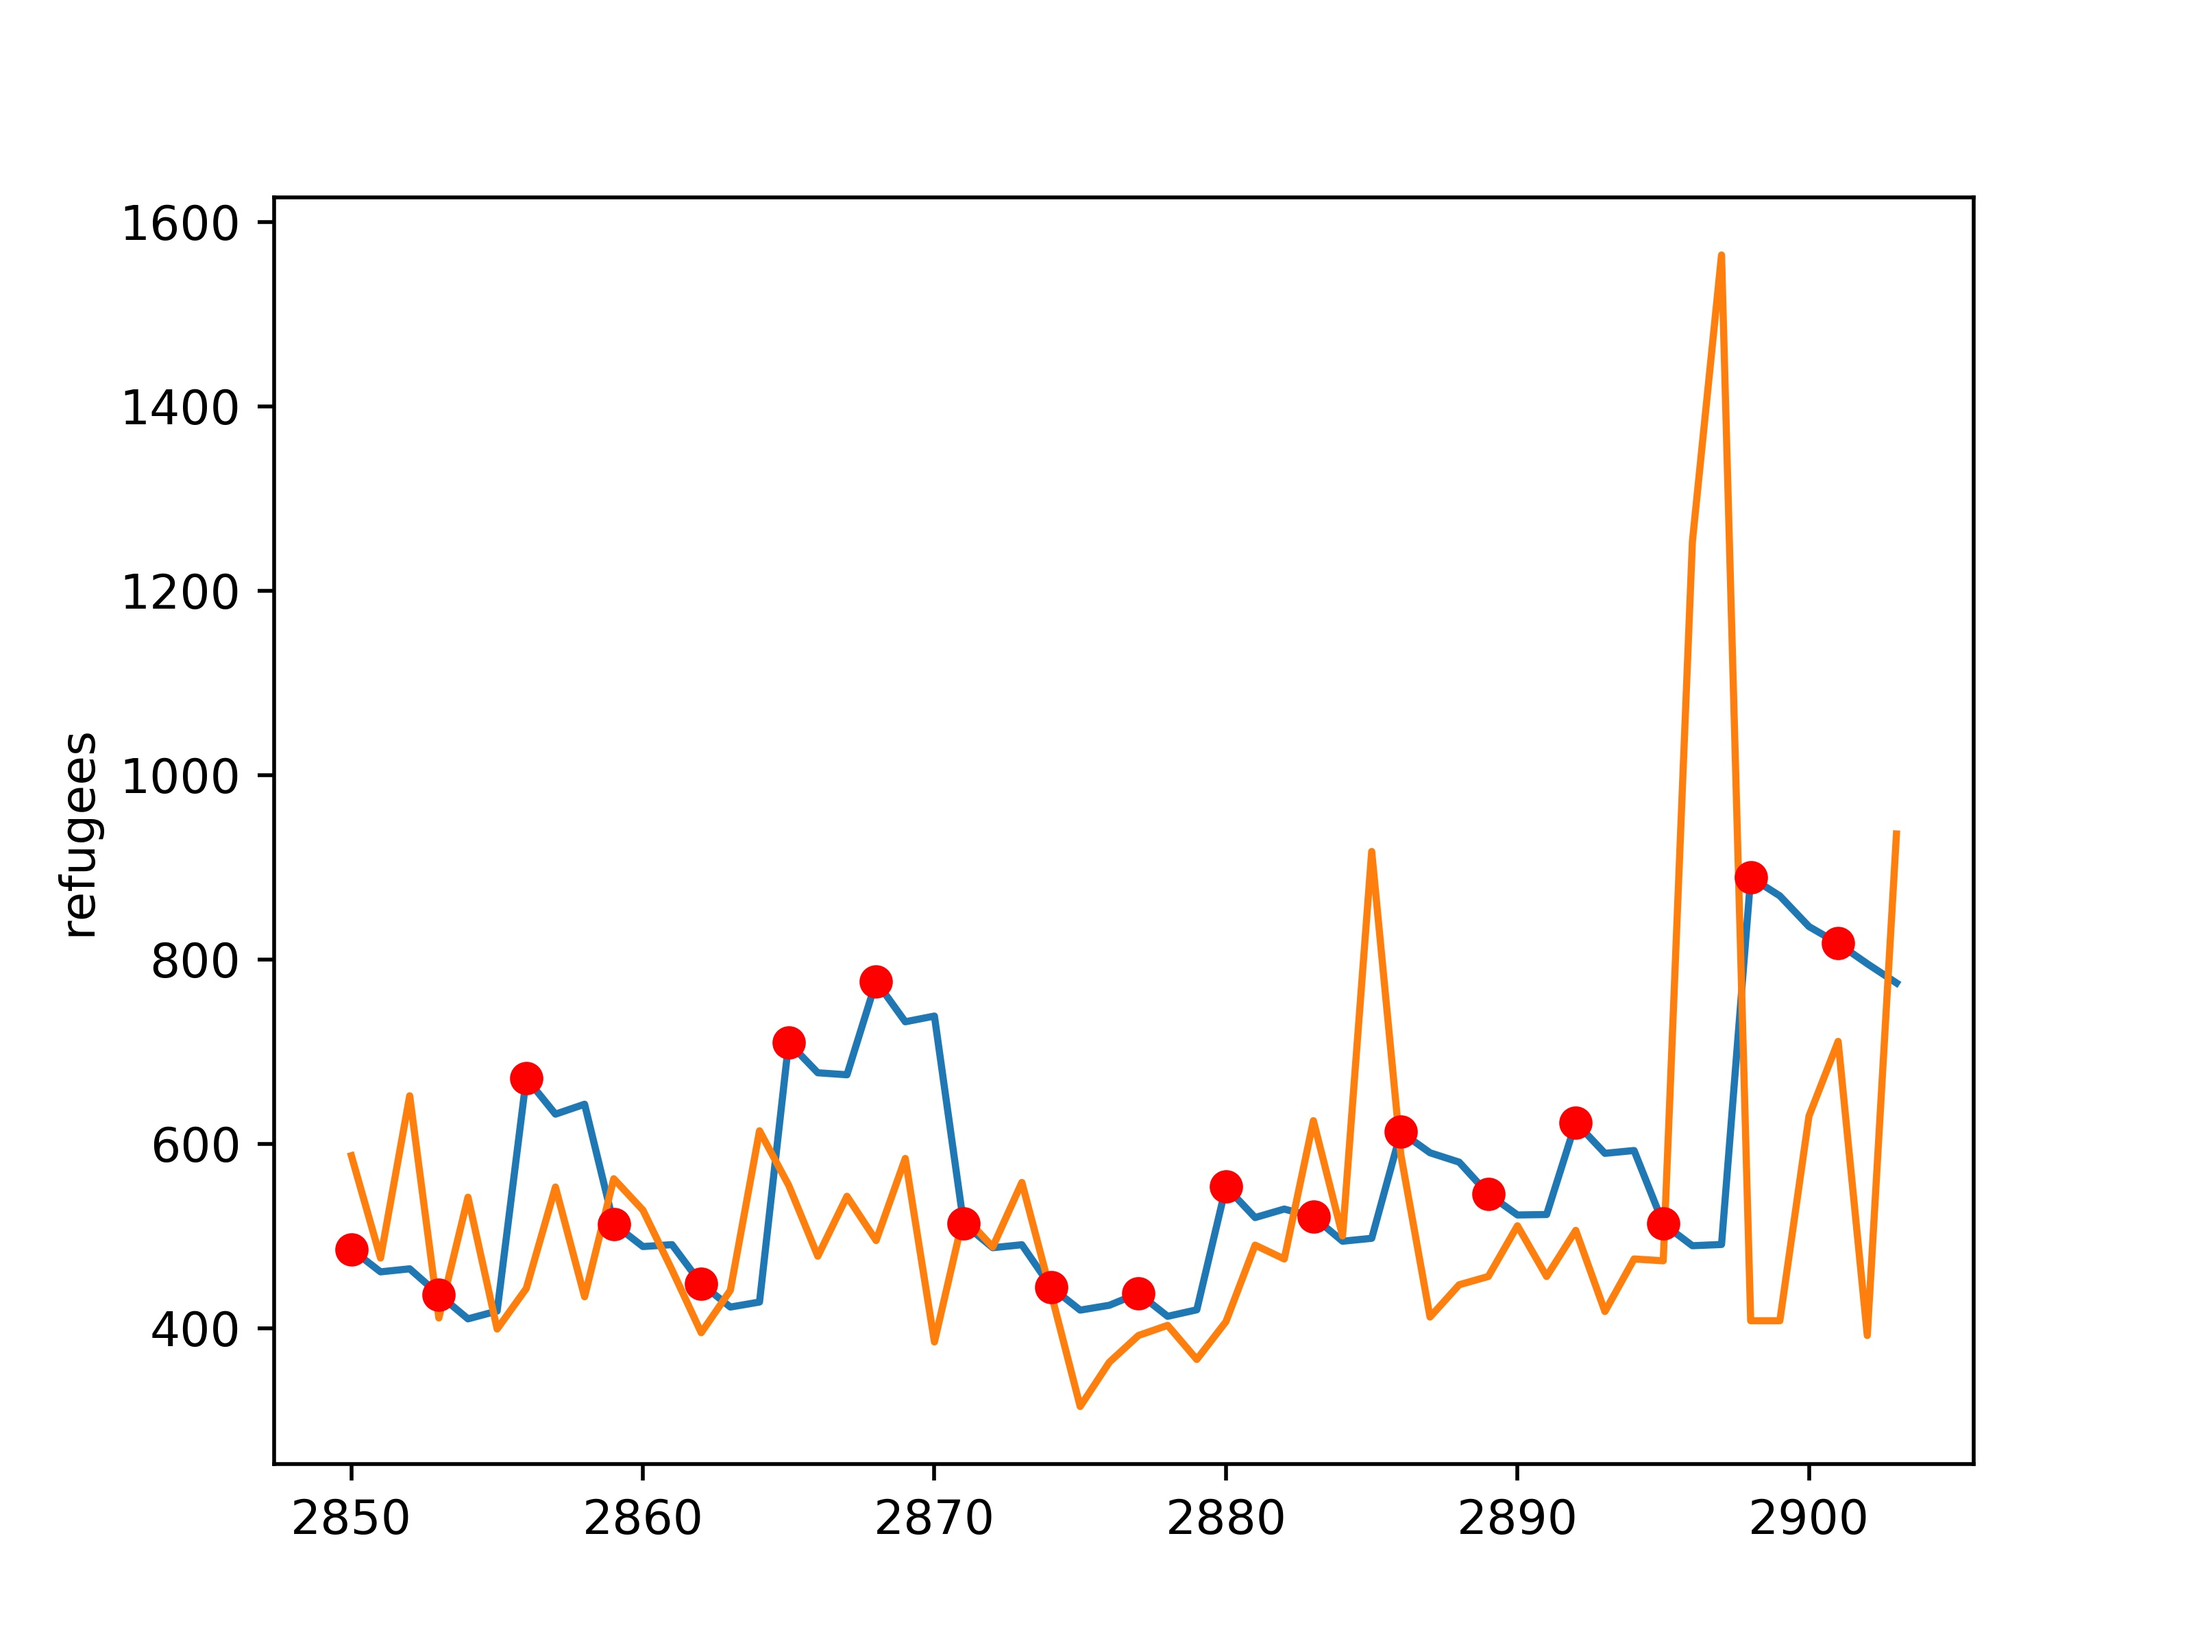
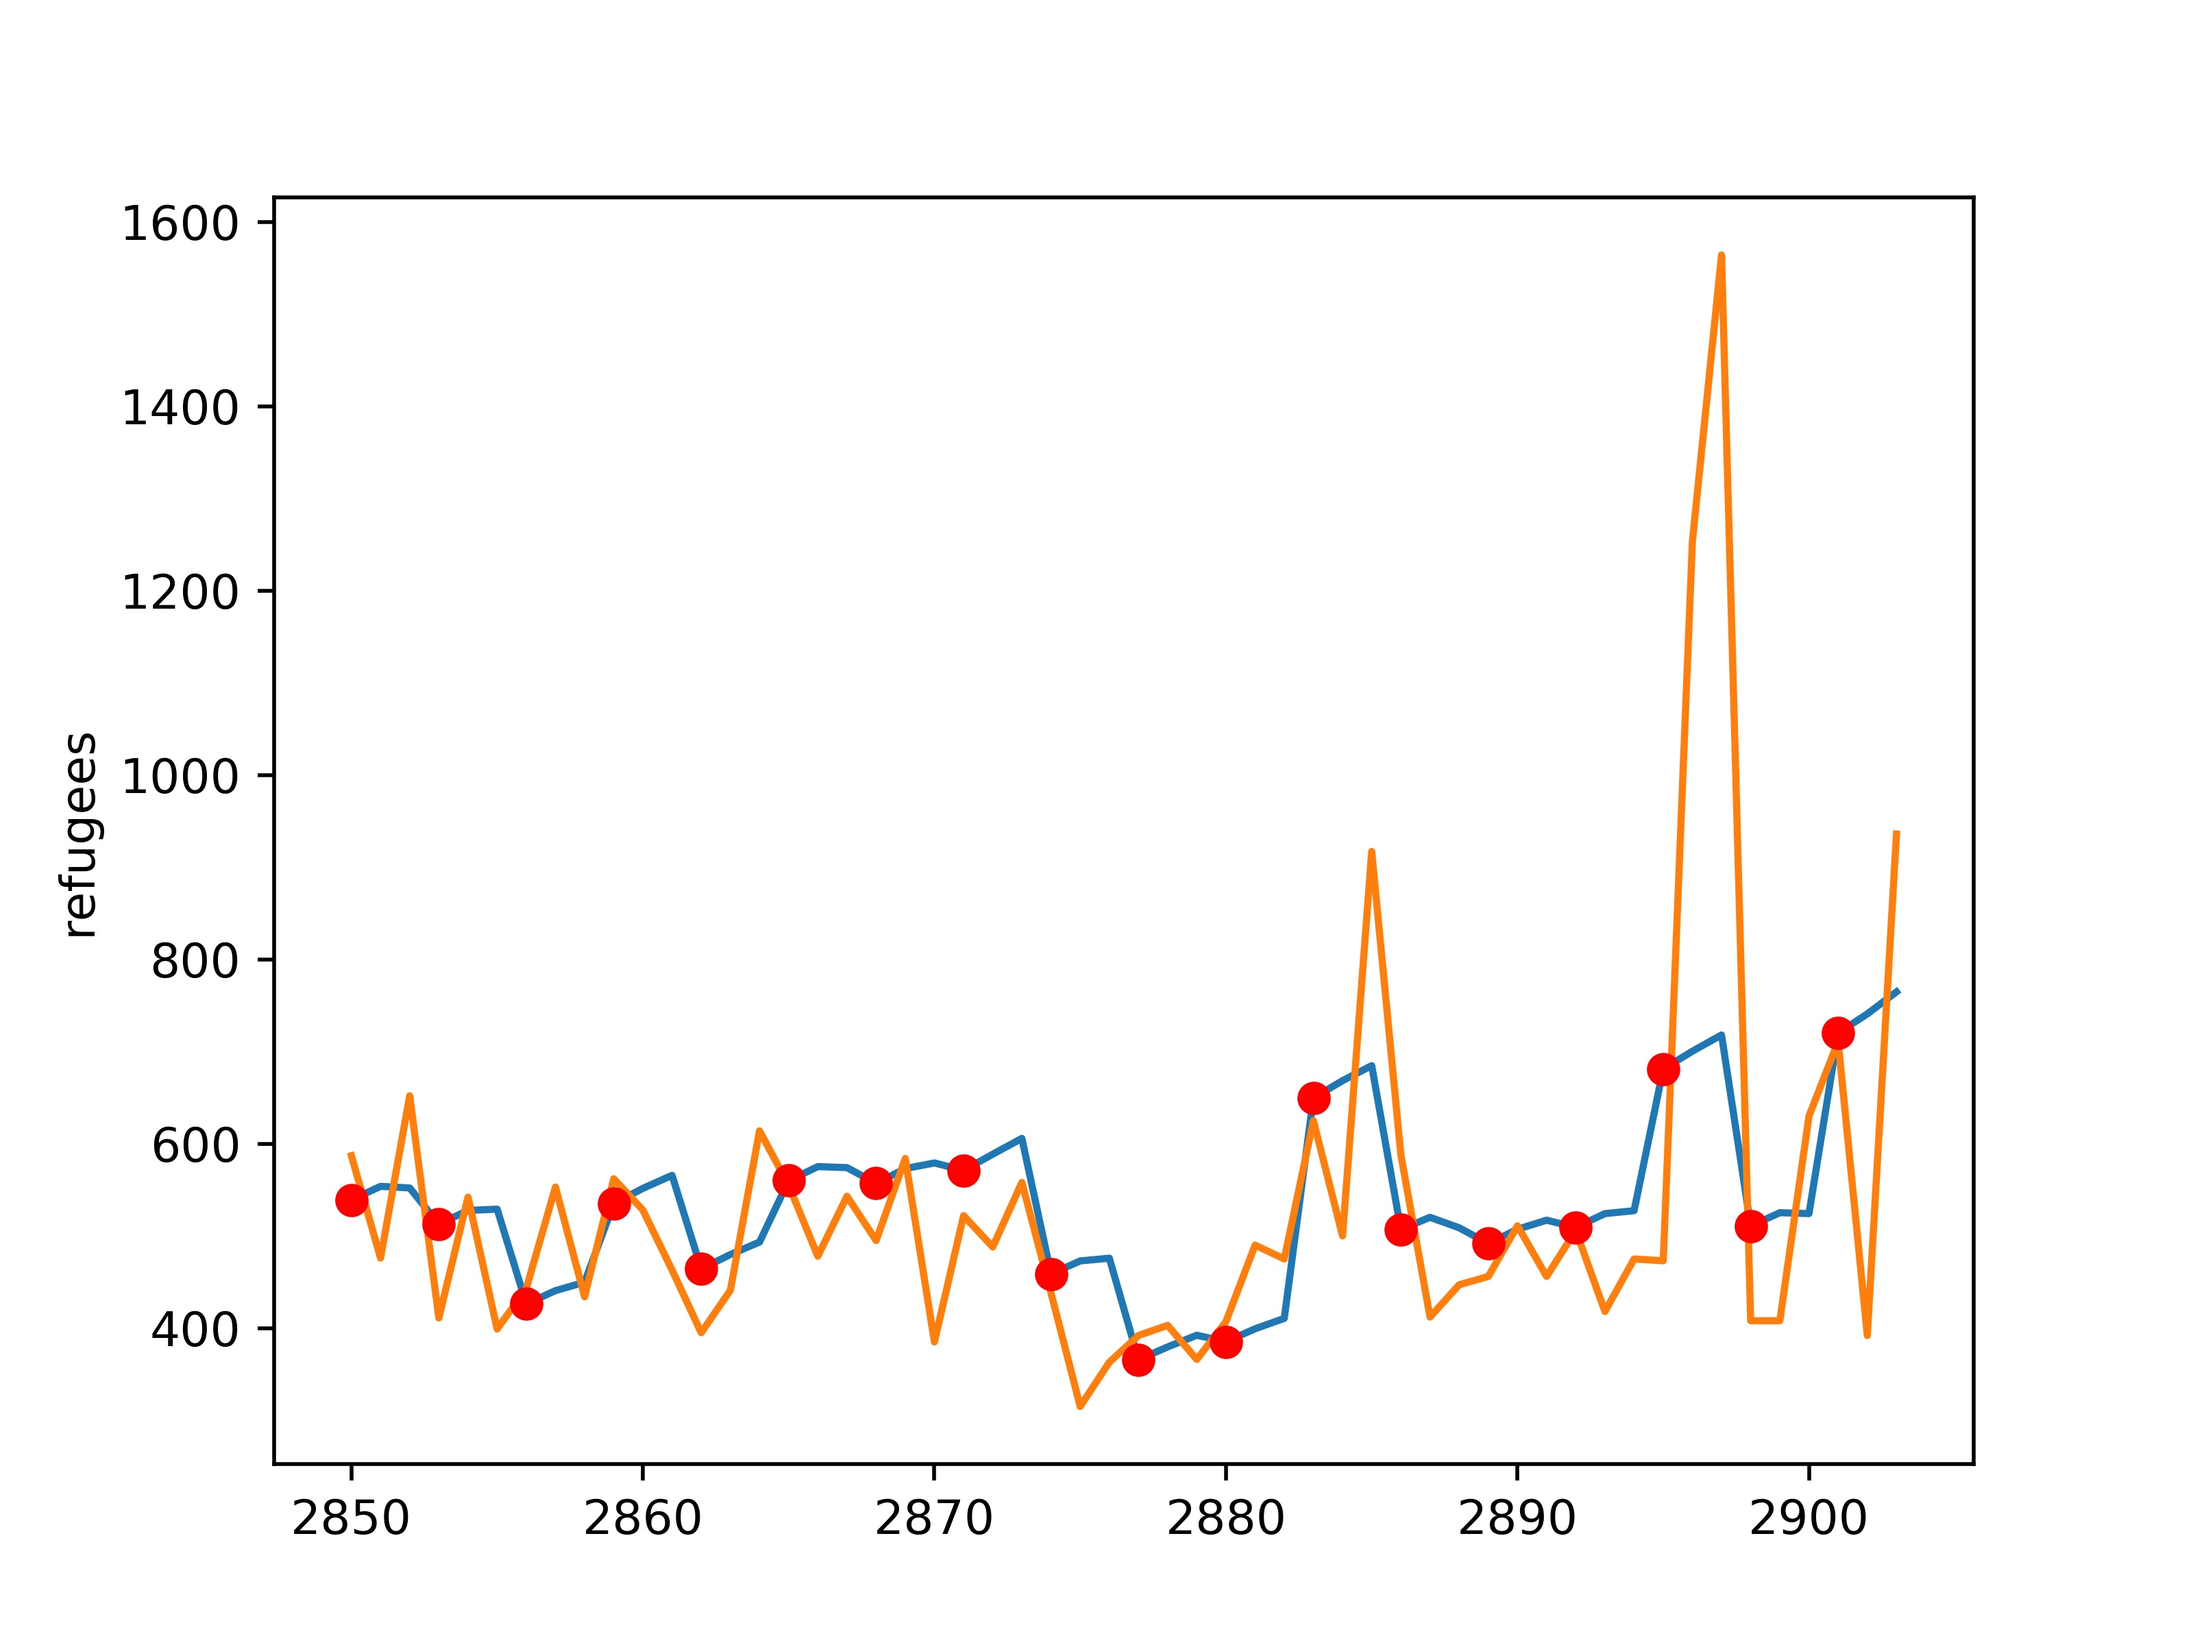
Predictor

Changed region(s): [[0.1562, 0.5938, 0.8438, 0.8438], [0.8125, 0.5625, 0.875, 0.625], [0.7812, 0.5312, 0.8125, 0.5625]]

diff --git a/refugee_predictor.py b/refugee_predictor.py
@@ -223,11 +223,11 @@ model.compile(optimizer='adam', loss='mean_squared_error', metrics=['mse'])
 path = './models/new/model'
 
 # Or load model
-# model = load_model(path + '.h5')
+model = load_model(path + '.h5')
 print(model.summary())
 
 # Train and plot results
-for i in range(0, steps):
+for i in range(50, steps + 50):
     model.fit(x_train, y_train, epochs=number_of_epochs, batch_size=train_amount, verbose=2)
 
     # Plot results
